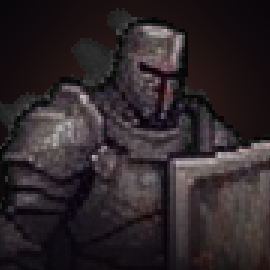
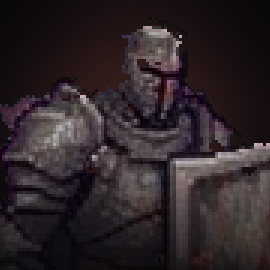
Caedmon: sem manchas atrás do capacete nem salpicos na capa (contorno mantido); retrato refeito da arte limpa; Gémeos, Hilde, Ozias e Seraphine falam sem retrato

diff --git a/index.html b/index.html
@@ -7,8 +7,8 @@
 <meta name="mobile-web-app-capable" content="yes">
 <meta name="apple-mobile-web-app-capable" content="yes">
 <title>Vesperal: A Última Chama</title>
-<link rel="stylesheet" href="css/fonts.css?v=20261126b">
-<link rel="stylesheet" href="css/game.css?v=20261126b">
+<link rel="stylesheet" href="css/fonts.css?v=20261127f">
+<link rel="stylesheet" href="css/game.css?v=20261127f">
 </head>
 <body>
 <div id="wrap">
@@ -23,95 +23,95 @@
 </div>
 <!-- núcleo -->
 <script>window.VS_BUILD = '20261126b';</script>
-<script src="js/core/util.js?v=20261126b"></script>
-<script src="js/core/i18n.js?v=20261126b"></script>
-<script src="js/core/input.js?v=20261126b"></script>
-<script src="js/core/save.js?v=20261126b"></script>
+<script src="js/core/util.js?v=20261127f"></script>
+<script src="js/core/i18n.js?v=20261127f"></script>
+<script src="js/core/input.js?v=20261127f"></script>
+<script src="js/core/save.js?v=20261127f"></script>
 <script src="js/core/audio.js?v=20261126c"></script>
-<script src="js/core/assets.js?v=20261126b"></script>
+<script src="js/core/assets.js?v=20261127f"></script>
 <!-- dados -->
-<script src="js/data/music.js?v=20261126b"></script>
-<script src="js/data/music_bosses.js?v=20261126b"></script>
+<script src="js/data/music.js?v=20261127f"></script>
+<script src="js/data/music_bosses.js?v=20261127f"></script>
 <script src="js/data/audio_overrides.js?v=20261126c"></script>
 <script src="js/data/sfx_samples.js?v=20261126a"></script>
-<script src="js/data/regions.js?v=20261126b"></script>
-<script src="js/data/items.js?v=20261126b"></script>
-<script src="js/data/weapons.js?v=20261126b"></script>
+<script src="js/data/regions.js?v=20261127f"></script>
+<script src="js/data/items.js?v=20261127f"></script>
+<script src="js/data/weapons.js?v=20261127f"></script>
 <!-- recursos gerados pelo ateliê (tools/art): metadados das folhas de sprites e das armas -->
-<script src="assets/weapons/weapons.js?v=20261126b"></script>
-<script src="assets/sprites/_index.js?v=20261127e"></script>
-<script src="assets/sprites/fx_art.js?v=20261126b"></script>
-<script src="assets/sprites/amb.js?v=20261126b"></script>
-<script src="assets/ui/hud.js?v=20261126b"></script>
-<script src="assets/props/props.js?v=20261126b"></script>
-<script src="assets/props/structs.js?v=20261126b"></script>
+<script src="assets/weapons/weapons.js?v=20261127f"></script>
+<script src="assets/sprites/_index.js?v=20261127f"></script>
+<script src="assets/sprites/fx_art.js?v=20261127f"></script>
+<script src="assets/sprites/amb.js?v=20261127f"></script>
+<script src="assets/ui/hud.js?v=20261127f"></script>
+<script src="assets/props/props.js?v=20261127f"></script>
+<script src="assets/props/structs.js?v=20261127f"></script>
 <script src="js/data/lang/en.js?v=20261126c"></script>
 <script src="js/data/lang/pt.js?v=20261126c"></script>
 <script src="js/data/lang/es.js?v=20261126c"></script>
 <script src="js/data/lang/fr.js?v=20261126c"></script>
-<script src="js/data/lang/en_story.js?v=20261126b"></script>
-<script src="js/data/lang/en_lore.js?v=20261126b"></script>
-<script src="js/data/lang/pt_story.js?v=20261126b"></script>
-<script src="js/data/lang/pt_lore.js?v=20261126b"></script>
-<script src="js/data/lang/es_story.js?v=20261126b"></script>
-<script src="js/data/lang/es_lore.js?v=20261126b"></script>
-<script src="js/data/lang/fr_story.js?v=20261126b"></script>
-<script src="js/data/lang/fr_lore.js?v=20261126b"></script>
-<script src="js/data/lang/pt_arsenal.js?v=20261126b"></script>
-<script src="js/data/lang/en_arsenal.js?v=20261126b"></script>
-<script src="js/data/lang/es_arsenal.js?v=20261126b"></script>
-<script src="js/data/lang/fr_arsenal.js?v=20261126b"></script>
-<script src="js/data/lang/pt_bosses.js?v=20261126b"></script>
-<script src="js/data/lang/en_bosses.js?v=20261126b"></script>
-<script src="js/data/lang/es_bosses.js?v=20261126b"></script>
-<script src="js/data/lang/fr_bosses.js?v=20261126b"></script>
+<script src="js/data/lang/en_story.js?v=20261127f"></script>
+<script src="js/data/lang/en_lore.js?v=20261127f"></script>
+<script src="js/data/lang/pt_story.js?v=20261127f"></script>
+<script src="js/data/lang/pt_lore.js?v=20261127f"></script>
+<script src="js/data/lang/es_story.js?v=20261127f"></script>
+<script src="js/data/lang/es_lore.js?v=20261127f"></script>
+<script src="js/data/lang/fr_story.js?v=20261127f"></script>
+<script src="js/data/lang/fr_lore.js?v=20261127f"></script>
+<script src="js/data/lang/pt_arsenal.js?v=20261127f"></script>
+<script src="js/data/lang/en_arsenal.js?v=20261127f"></script>
+<script src="js/data/lang/es_arsenal.js?v=20261127f"></script>
+<script src="js/data/lang/fr_arsenal.js?v=20261127f"></script>
+<script src="js/data/lang/pt_bosses.js?v=20261127f"></script>
+<script src="js/data/lang/en_bosses.js?v=20261127f"></script>
+<script src="js/data/lang/es_bosses.js?v=20261127f"></script>
+<script src="js/data/lang/fr_bosses.js?v=20261127f"></script>
 <!-- render -->
-<script src="js/render/gfx.js?v=20261126b"></script>
-<script src="js/render/tiles.js?v=20261126b"></script>
-<script src="js/render/backgrounds.js?v=20261126b"></script>
-<script src="js/render/bg_art.js?v=20261126b"></script>
-<script src="js/render/deco.js?v=20261126b"></script>
-<script src="js/render/sprites.js?v=20261126b"></script>
-<script src="js/render/sprites_obj.js?v=20261126b"></script>
-<script src="js/render/sprites_enemies.js?v=20261126b"></script>
-<script src="js/render/sprites_bosses.js?v=20261126b"></script>
-<script src="js/render/sprites_npc.js?v=20261126b"></script>
-<script src="js/render/hero_render.js?v=20261126b"></script>
-<script src="js/render/fx.js?v=20261126b"></script>
-<script src="js/render/enemy_render.js?v=20261126b"></script>
+<script src="js/render/gfx.js?v=20261127f"></script>
+<script src="js/render/tiles.js?v=20261127f"></script>
+<script src="js/render/backgrounds.js?v=20261127f"></script>
+<script src="js/render/bg_art.js?v=20261127f"></script>
+<script src="js/render/deco.js?v=20261127f"></script>
+<script src="js/render/sprites.js?v=20261127f"></script>
+<script src="js/render/sprites_obj.js?v=20261127f"></script>
+<script src="js/render/sprites_enemies.js?v=20261127f"></script>
+<script src="js/render/sprites_bosses.js?v=20261127f"></script>
+<script src="js/render/sprites_npc.js?v=20261127f"></script>
+<script src="js/render/hero_render.js?v=20261127f"></script>
+<script src="js/render/fx.js?v=20261127f"></script>
+<script src="js/render/enemy_render.js?v=20261127f"></script>
 <!-- jogo -->
-<script src="js/game/world.js?v=20261126b"></script>
-<script src="js/game/state.js?v=20261126b"></script>
-<script src="js/game/entity.js?v=20261126b"></script>
-<script src="js/game/player.js?v=20261126b"></script>
-<script src="js/game/objects.js?v=20261126b"></script>
-<script src="js/game/enemies.js?v=20261126b"></script>
-<script src="js/game/bosses.js?v=20261126b"></script>
-<script src="js/game/bosses2.js?v=20261126b"></script>
-<script src="js/game/bosses3.js?v=20261126b"></script>
-<script src="js/game/patterns.js?v=20261126b"></script>
-<script src="js/game/trials.js?v=20261126b"></script>
-<script src="js/game/wanderer.js?v=20261126b"></script>
-<script src="js/game/ambient.js?v=20261126b"></script>
-<script src="js/game/game.js?v=20261126b"></script>
-<script src="js/game/story.js?v=20261126b"></script>
-<script src="js/game/npcs.js?v=20261126b"></script>
-<script src="js/game/endings.js?v=20261126b"></script>
+<script src="js/game/world.js?v=20261127f"></script>
+<script src="js/game/state.js?v=20261127f"></script>
+<script src="js/game/entity.js?v=20261127f"></script>
+<script src="js/game/player.js?v=20261127f"></script>
+<script src="js/game/objects.js?v=20261127f"></script>
+<script src="js/game/enemies.js?v=20261127f"></script>
+<script src="js/game/bosses.js?v=20261127f"></script>
+<script src="js/game/bosses2.js?v=20261127f"></script>
+<script src="js/game/bosses3.js?v=20261127f"></script>
+<script src="js/game/patterns.js?v=20261127f"></script>
+<script src="js/game/trials.js?v=20261127f"></script>
+<script src="js/game/wanderer.js?v=20261127f"></script>
+<script src="js/game/ambient.js?v=20261127f"></script>
+<script src="js/game/game.js?v=20261127f"></script>
+<script src="js/game/story.js?v=20261127f"></script>
+<script src="js/game/npcs.js?v=20261127f"></script>
+<script src="js/game/endings.js?v=20261127f"></script>
 <!-- mundo -->
-<script src="js/data/builder.js?v=20261126b"></script>
-<script src="js/data/lore.js?v=20261126b"></script>
-<script src="js/data/rooms_r1.js?v=20261126b"></script>
-<script src="js/data/rooms_r2.js?v=20261126b"></script>
-<script src="js/data/rooms_r3.js?v=20261126b"></script>
-<script src="js/data/rooms_r4.js?v=20261126b"></script>
-<script src="js/data/rooms_r5.js?v=20261126b"></script>
-<script src="js/data/rooms_r6.js?v=20261126b"></script>
-<script src="js/data/rooms_r7.js?v=20261126b"></script>
+<script src="js/data/builder.js?v=20261127f"></script>
+<script src="js/data/lore.js?v=20261127f"></script>
+<script src="js/data/rooms_r1.js?v=20261127f"></script>
+<script src="js/data/rooms_r2.js?v=20261127f"></script>
+<script src="js/data/rooms_r3.js?v=20261127f"></script>
+<script src="js/data/rooms_r4.js?v=20261127f"></script>
+<script src="js/data/rooms_r5.js?v=20261127f"></script>
+<script src="js/data/rooms_r6.js?v=20261127f"></script>
+<script src="js/data/rooms_r7.js?v=20261127f"></script>
 <!-- interface -->
-<script src="js/ui/icons.js?v=20261126b"></script>
-<script src="js/ui/ui.js?v=20261126b"></script>
-<script src="js/ui/menus.js?v=20261126b"></script>
-<script src="js/ui/touch.js?v=20261126b"></script>
-<script src="js/main.js?v=20261126b"></script>
+<script src="js/ui/icons.js?v=20261127f"></script>
+<script src="js/ui/ui.js?v=20261127f"></script>
+<script src="js/ui/menus.js?v=20261127f"></script>
+<script src="js/ui/touch.js?v=20261127f"></script>
+<script src="js/main.js?v=20261127f"></script>
 </body>
 </html>

diff --git a/js/ui/ui.js b/js/ui/ui.js
@@ -200,14 +200,16 @@
     const vg = c.createLinearGradient(0, 120, 0, 180); vg.addColorStop(0, 'rgba(8,6,10,0)'); vg.addColorStop(1, 'rgba(8,6,10,0.9)'); c.fillStyle = vg; c.fillRect(0, 0, 180, 180);
     return (bossPortraits[id] = cv);
   }
-  const PAINTED = new Set(['boss_aldric', 'boss_caedmon', 'boss_corvin', 'boss_elowen', 'boss_gemeos', 'boss_hilde', 'boss_ozias', 'boss_seraphine']);
+  const PAINTED = new Set(['boss_aldric', 'boss_caedmon', 'boss_corvin', 'boss_elowen']);
+  // retratos que não ficavam bem (aos quadrados, com orlas): estes chefes falam sem retrato
+  const NO_PORTRAIT = new Set(['boss_gemeos', 'boss_hilde', 'boss_ozias', 'boss_seraphine']);
   function setPortrait(el, s) {
     const box = el.querySelector('.dlg-portrait'); box.innerHTML = '';
     let node = null;
     // as pessoas (NPC) falam sem retrato; só os chefes mostram o rosto ao falar
     // só os chefes que falam têm retrato desenhado (assets/portraits/boss_<id>.png, da arte nova); os outros, recorte da folha
     if (s && PAINTED.has(s)) { node = document.createElement('img'); node.src = 'assets/portraits/' + s + '.png?v=' + (window.VS_BUILD || ''); node.alt = ''; }
-    else if (s && /^boss_/.test(s)) { const cv = bossPortrait(s.slice(5)); if (cv) { node = document.createElement('canvas'); node.width = node.height = 180; node.getContext('2d').drawImage(cv, 0, 0); } }
+    else if (s && /^boss_/.test(s) && !NO_PORTRAIT.has(s)) { const cv = bossPortrait(s.slice(5)); if (cv) { node = document.createElement('canvas'); node.width = node.height = 180; node.getContext('2d').drawImage(cv, 0, 0); } }
     if (node) box.appendChild(node);
     el.classList.toggle('has-portrait', !!node);
   }
